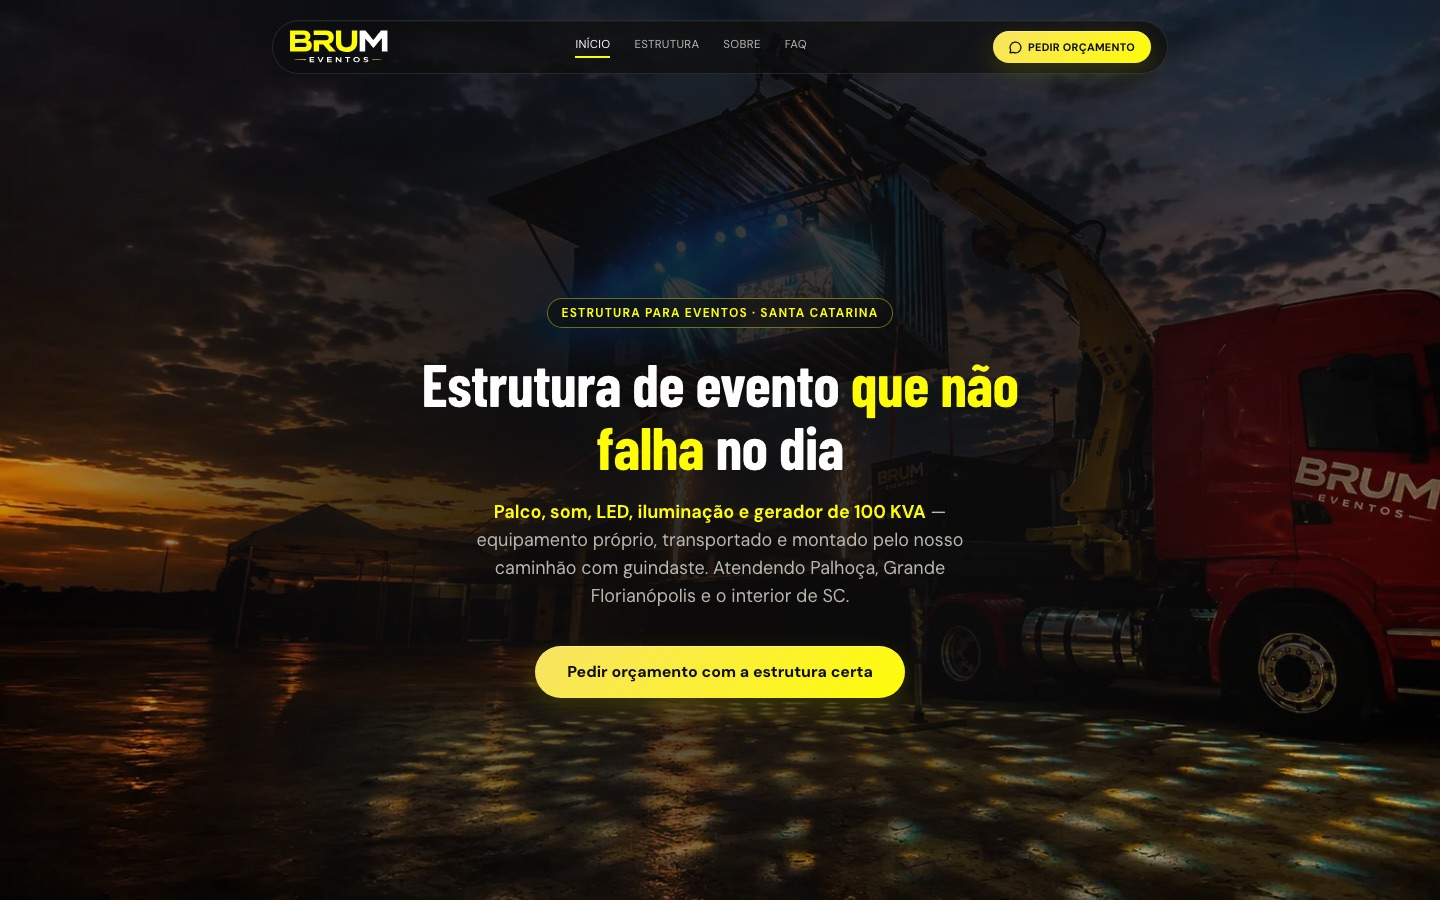
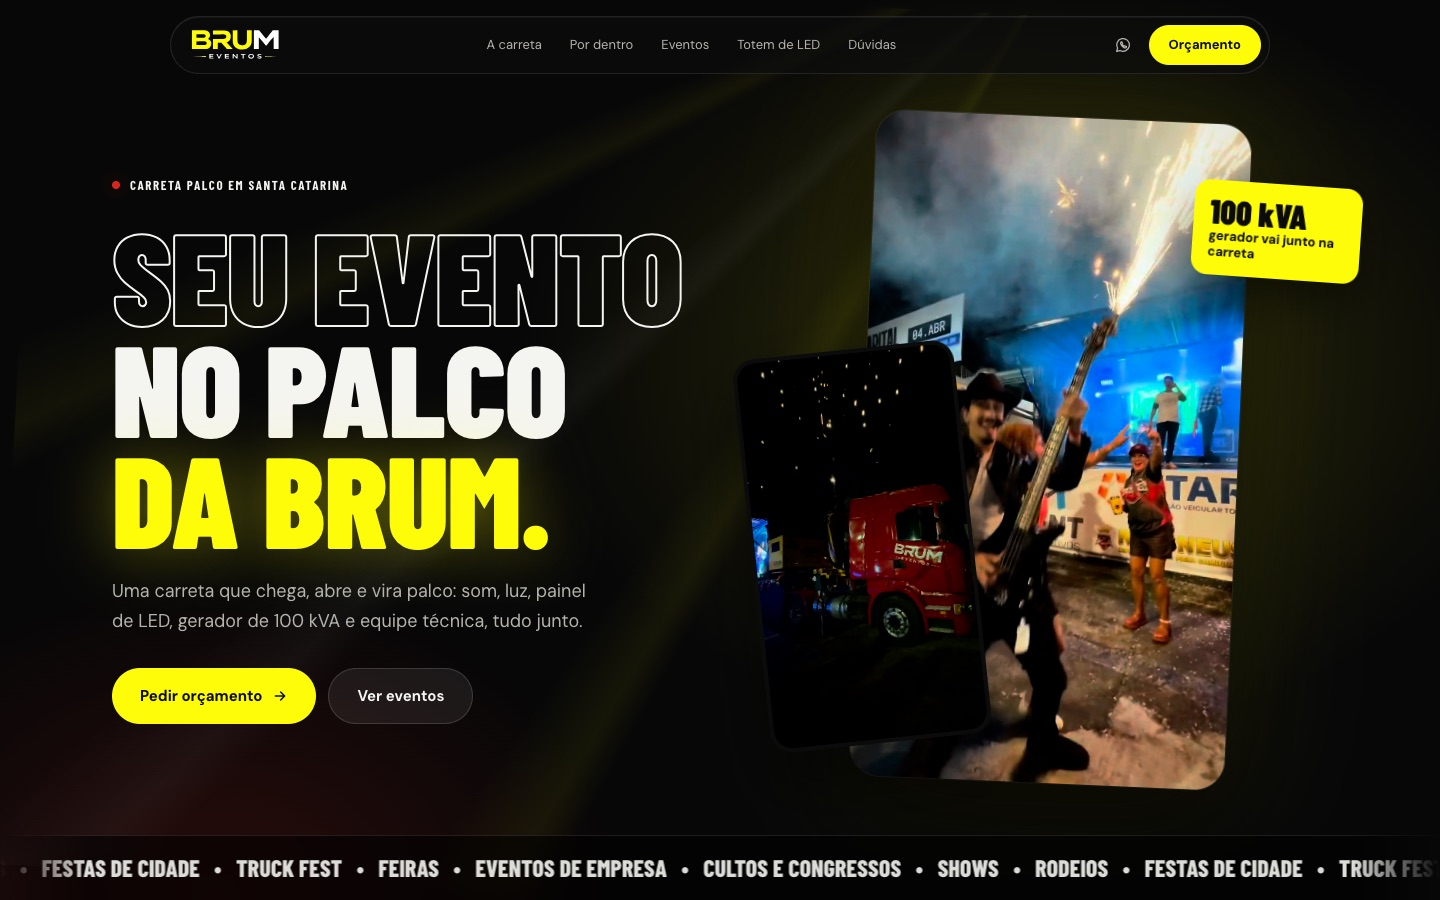
feat: cases — adiciona MK Engenharia, Dad Steel e Rodama + prints novos dos Brum

diff --git a/src/lib/data.ts b/src/lib/data.ts
@@ -212,6 +212,36 @@ export const PORTFOLIO: PortfolioCase[] = [
     featured: true,
   },
   {
+    name: "MK Engenharia",
+    segmento: "Implementos e corte a laser · Mafra/SC",
+    resultado: "Site + catálogo digital de implementos com visualização 3D e catálogo impresso. Lighthouse 100 em performance e SEO.",
+    tag: "Web + Catálogo 3D",
+    image: "/projects/mk-engenharia.jpg",
+    url: "https://www.mkengenharia.ind.br/",
+    metric: "100",
+    metricLabel: "nota Lighthouse no domínio real",
+  },
+  {
+    name: "Dad Steel",
+    segmento: "Steel frame · Biguaçu/SC",
+    resultado: "Obras reais organizadas em cases, páginas por cidade e conteúdo técnico estruturado para Google e IA.",
+    tag: "Web + SEO + GEO",
+    image: "/projects/dad-steel.jpg",
+    url: "https://dadsteel.com.br/",
+    metric: "GEO",
+    metricLabel: "pronto para ser citado por IA",
+  },
+  {
+    name: "Rodama",
+    segmento: "Peças agrícolas · Lagoa Vermelha/RS",
+    resultado: "Site institucional com uma página para cada peça do catálogo e catálogo em PDF liberado por cadastro.",
+    tag: "Web + Catálogo",
+    image: "/projects/rodama.jpg",
+    url: "https://rodama-site.vercel.app/",
+    metric: "910",
+    metricLabel: "páginas de peça no ar",
+  },
+  {
     name: "TornoMetal Everton Lopes",
     segmento: "Agro · Indústria · Passo Fundo/RS",
     resultado: "70 leads por mês com e-commerce, SEO e tráfego estruturado.",
@@ -254,7 +284,7 @@ export const PORTFOLIO: PortfolioCase[] = [
   {
     name: "Brum Eventos",
     segmento: "Estrutura para eventos · Palhoça/SC",
-    resultado: "Palco, som, LED e gerador apresentados como solução fechada, com orçamento direto no WhatsApp.",
+    resultado: "Carreta que vira palco: som, luz, LED e gerador apresentados como solução fechada, com orçamento direto no WhatsApp.",
     tag: "Web + SEO",
     image: "/projects/brum-eventos.jpg",
     url: "https://brum-eventos-site.vercel.app/",
